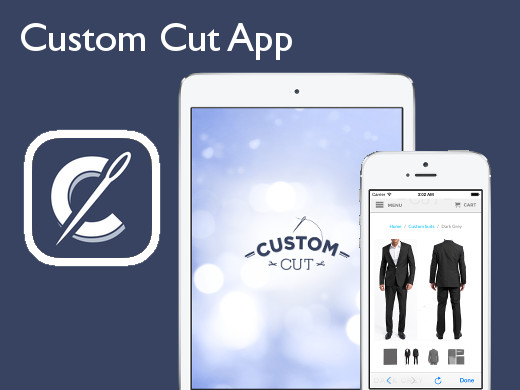
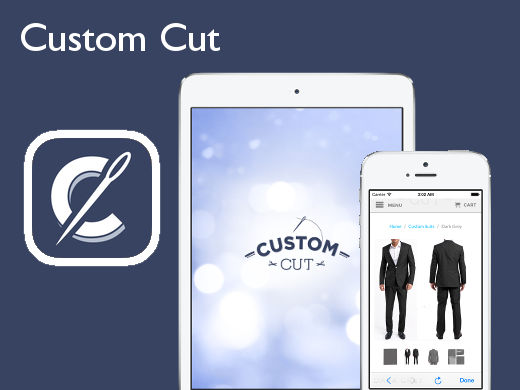
updated portfolio images

Changed region(s): [[0.4308, 0.0615, 0.5846, 0.1538], [0.8923, 0.9538, 0.9231, 0.9846], [0.8308, 0.9538, 0.8615, 0.9846]]

diff --git a/index.html b/index.html
@@ -73,28 +73,28 @@
 								<section>
 									<div class="row">
 										<div class="4u 12u$(mobile)">
-											<a href="#customcut" class="jumplink image fit port"><img src="images/port_customcut.jpg" alt="Custom Cut App"></a>
+											<a href="#customcut" class="jumplink image fit port"><img src="images/port_customcut.jpg" alt="Custom Cut"></a>
 										</div>
 										<div class="4u 12u$(mobile)">
-											<a href="#polykeyboard" class="jumplink image fit port"><img src="images/port_polykeyboard.jpg" alt="PolyKeyboard App"></a>
+											<a href="#polykeyboard" class="jumplink image fit port"><img src="images/port_polykeyboard.jpg" alt="PolyKeyboard"></a>
 										</div>
 										<div class="4u$ 12u$(mobile)">
-											<a href="#" class="image fit port"><img src="images/port_graffwriter.jpg" alt="Graffwriter App"></a>
+											<a href="#portfolio" class="image fit port"><img src="images/port_graffwriter.jpg" alt="Graffwriter"></a>
 										</div>
 										<div class="4u 12u$(mobile)">
-											<a href="#coach" class="jumplink image fit port"><img src="images/port_coach.jpg" alt="AMP Coach App"></a>
+											<a href="#coach" class="jumplink image fit port"><img src="images/port_coach.jpg" alt="AMP Coach"></a>
 										</div>
 										<div class="4u 12u$(mobile)">
-											<a href="#athlete" class="jumplink image fit port"><img src="images/port_athlete.jpg" alt="AMP Athlete App"></a>
+											<a href="#athlete" class="jumplink image fit port"><img src="images/port_athlete.jpg" alt="AMP Athlete"></a>
 										</div>
 										<div class="4u$ 12u$(mobile)">
-											<a href="#skillsquest" class="jumplink image fit port"><img src="images/port_skillsquest.jpg" alt="AMP SkillsQuest App"></a>
+											<a href="#skillsquest" class="jumplink image fit port"><img src="images/port_skillsquest.jpg" alt="AMP SkillsQuest"></a>
 										</div>
 										<div class="4u 12u$(mobile)">
-											<a href="#mega" class="jumplink image fit port"><img src="images/port_mega.jpg" alt="Mega Picker App"></a>
+											<a href="#mega" class="jumplink image fit port"><img src="images/port_mega.jpg" alt="Mega Picker"></a>
 										</div>
 										<div class="4u 12u$(mobile)">
-											<a href="#lines" class="jumplink image fit port"><img src="images/port_lines.jpg" alt="Lines App"></a>
+											<a href="#lines" class="jumplink image fit port"><img src="images/port_lines.jpg" alt="Lines!"></a>
 										</div>
 										<div class="4u$ 12u$(mobile)">
 											<a href="#quickmatch" class="jumplink image fit port"><img src="images/port_511.jpg" alt="511 QuickMatch Website"></a>
@@ -179,7 +179,7 @@
 							<article id="customcut" class="panel">
 								<header>
 									<img src="images/icon_customcut.png" alt="Custom Cut">
-									<h2>Custom Cut App</h2>
+									<h2>Custom Cut</h2>
 								</header>
 								<section>
 									<div class="row">
@@ -220,7 +220,7 @@
 												With Custom Cut, I worked on all aspects of app creation and deployment, including planning and design, native Objective-C programming, graphics editing, app screenshot marketing and deployment to the App Store.
 											</p>
 											<p>
-												Development included implementing account creation and login views with animated UI.  I solved seemless integration between 2 separate server APIs: a shopping service, and a custom computer vision compute server. I replaced and improved an initial prototype UI/UX with a pan and zoom interface for body measurements, developing custom algorithms, and using Core Graphics and Animation. Then I refined it further using edge detection to fit measurements to body outlines.  Delievered measurements to backend server for further refinement and processing.  Integrated debugging &amp; demo options through the Settings App, and seemless shopping through a modified web view.
+												Development included implementing account creation and login views with animated UI.  I solved seamless integration between 2 separate server APIs: a shopping service, and a custom computer vision compute server. I replaced and improved an initial prototype UI/UX with a pan and zoom interface for body measurements, developing custom algorithms, and using Core Graphics and Animation. Then I refined it further using edge detection to fit measurements to body outlines.  Delievered measurements to backend server for further refinement and processing.  Integrated debugging &amp; demo options through the Settings App, and seemless shopping through a modified web view.
 											</p>
 											<p>
 												The Custom Cut app and website were taken down in mid-July 2015 due to lack of funds.  Below are screenshots of the app on the App Store, and to your left is a video of it in action.  We later reduced the number of measurements required to a subset of what's shown in the video.
@@ -238,7 +238,7 @@
 							<article id="polykeyboard" class="panel">
 								<header>
 									<img src="images/icon_polykeyboard.png" alt="PolyKeyboard">
-									<h2>PolyKeyboard App</h2>
+									<h2>PolyKeyboard</h2>
 								</header>
 								<section>
 									<div class="row">
@@ -299,7 +299,7 @@
 							<article id="coach" class="panel">
 								<header>
 									<img src="images/icon_coach.png" alt="AMP Coach">
-									<h2>AMP Coach App</h2>
+									<h2>AMP Coach</h2>
 								</header>
 								<section>
 									<div class="row">
@@ -378,7 +378,7 @@
 							<article id="athlete" class="panel">
 								<header>
 									<img src="images/icon_athlete.png" alt="AMP Athlete">
-									<h2>AMP Athlete App</h2>
+									<h2>AMP Athlete</h2>
 								</header>
 								<section>
 									<div class="row">
@@ -443,7 +443,7 @@
 							<article id="skillsquest" class="panel">
 								<header>
 									<img src="images/icon_skillsquest.png" alt="AMP SkillsQuest">
-									<h2>AMP SkillsQuest App</h2>
+									<h2>AMP SkillsQuest</h2>
 								</header>
 								<section>
 									<div class="row">
@@ -510,7 +510,7 @@
 							<article id="mega" class="panel">
 								<header>
 									<img src="images/icon_mega.png" alt="Mega Picker">
-									<h2>Mega Picker! App</h2>
+									<h2>Mega Picker!</h2>
 								</header>
 								<section>
 									<div class="row">
@@ -561,7 +561,7 @@
 							<article id="lines" class="panel">
 								<header>
 									<img src="images/icon_lines.png" alt="Lines">
-									<h2>Lines! App</h2>
+									<h2>Lines!</h2>
 								</header>
 								<section>
 									<div class="row">

diff --git a/apps/index.html b/apps/index.html
@@ -51,7 +51,7 @@
 											<div class="row">
 												<div class="7u 12u$(mobile) centered"><br>
 													<a href="https://itunes.apple.com/us/app/lines/id390391751" class="animate"><img src="images/badge_appstore.jpg" alt="Download on the App Store"></a><br>
-													<a href="https://github.com/cgorringe/Lines-watchOS" class="animate"><img src="images/badge_github.png" alt="Source Code on Github"></a><br>
+													<!-- <a href="https://github.com/cgorringe/Lines-watchOS" class="animate"><img src="images/badge_github.png" alt="Source Code on Github"></a><br> -->
 												</div>
 												<div class="5u 12u$(mobile) centered">
 													<img src="images/ss_lines_tv.png" alt="Apple TV" /><br><br>
@@ -90,12 +90,13 @@
 												Have fun playing the Mega Millions Lotto, and Good Luck!
 											</p>
 											<div class="row">
-												<div class="4u 12u$(mobile) centered">
+												<div class="12u 12u$(mobile) centered">
 													<a href="https://itunes.apple.com/us/app/mega-picker!-for-mega-millions/id803877750" class="animate"><img src="images/badge_appstore.jpg" alt="Download on the App Store"></a>
 												</div>
-												<div class="4u 12u$(mobile) centered">
+												<!--
+												<div class="5u 12u$(mobile)">
 													<a href="https://github.com/cgorringe/Mega-iOS" class="animate"><img src="images/badge_github.png" alt="Source Code on Github"></a>
-												</div>
+												</div> -->
 											</div>
 										</div>
 										<div class="4u 12u$(mobile) centered">
